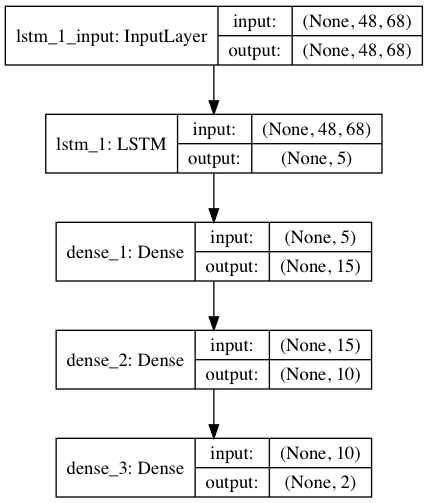
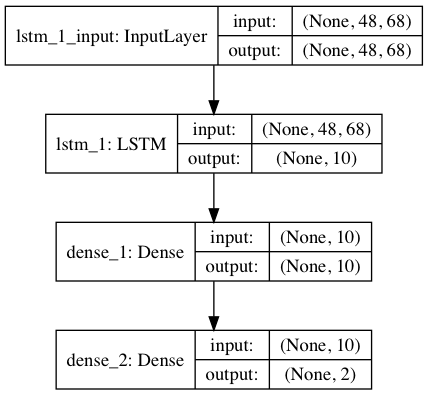
minor updates

Changed region(s): [[0.0, 0.0, 1.0, 1.0]]

diff --git a/keras-pipeline.py b/keras-pipeline.py
@@ -121,9 +121,9 @@ print x_test.shape
 #val split
 # design network
 model = Sequential()
-model.add(LSTM(5,return_sequences=False,input_shape=(x_train.shape[1], x_train.shape[2])))
+model.add(LSTM(10,return_sequences=False,input_shape=(x_train.shape[1], x_train.shape[2])))
 #model.add(LSTM(25))
-model.add(Dense(15))
+#model.add(Dense(15))
 model.add(Dense(10))
 model.add(Dense(2))
 model.compile(loss='mse', optimizer='adam')
